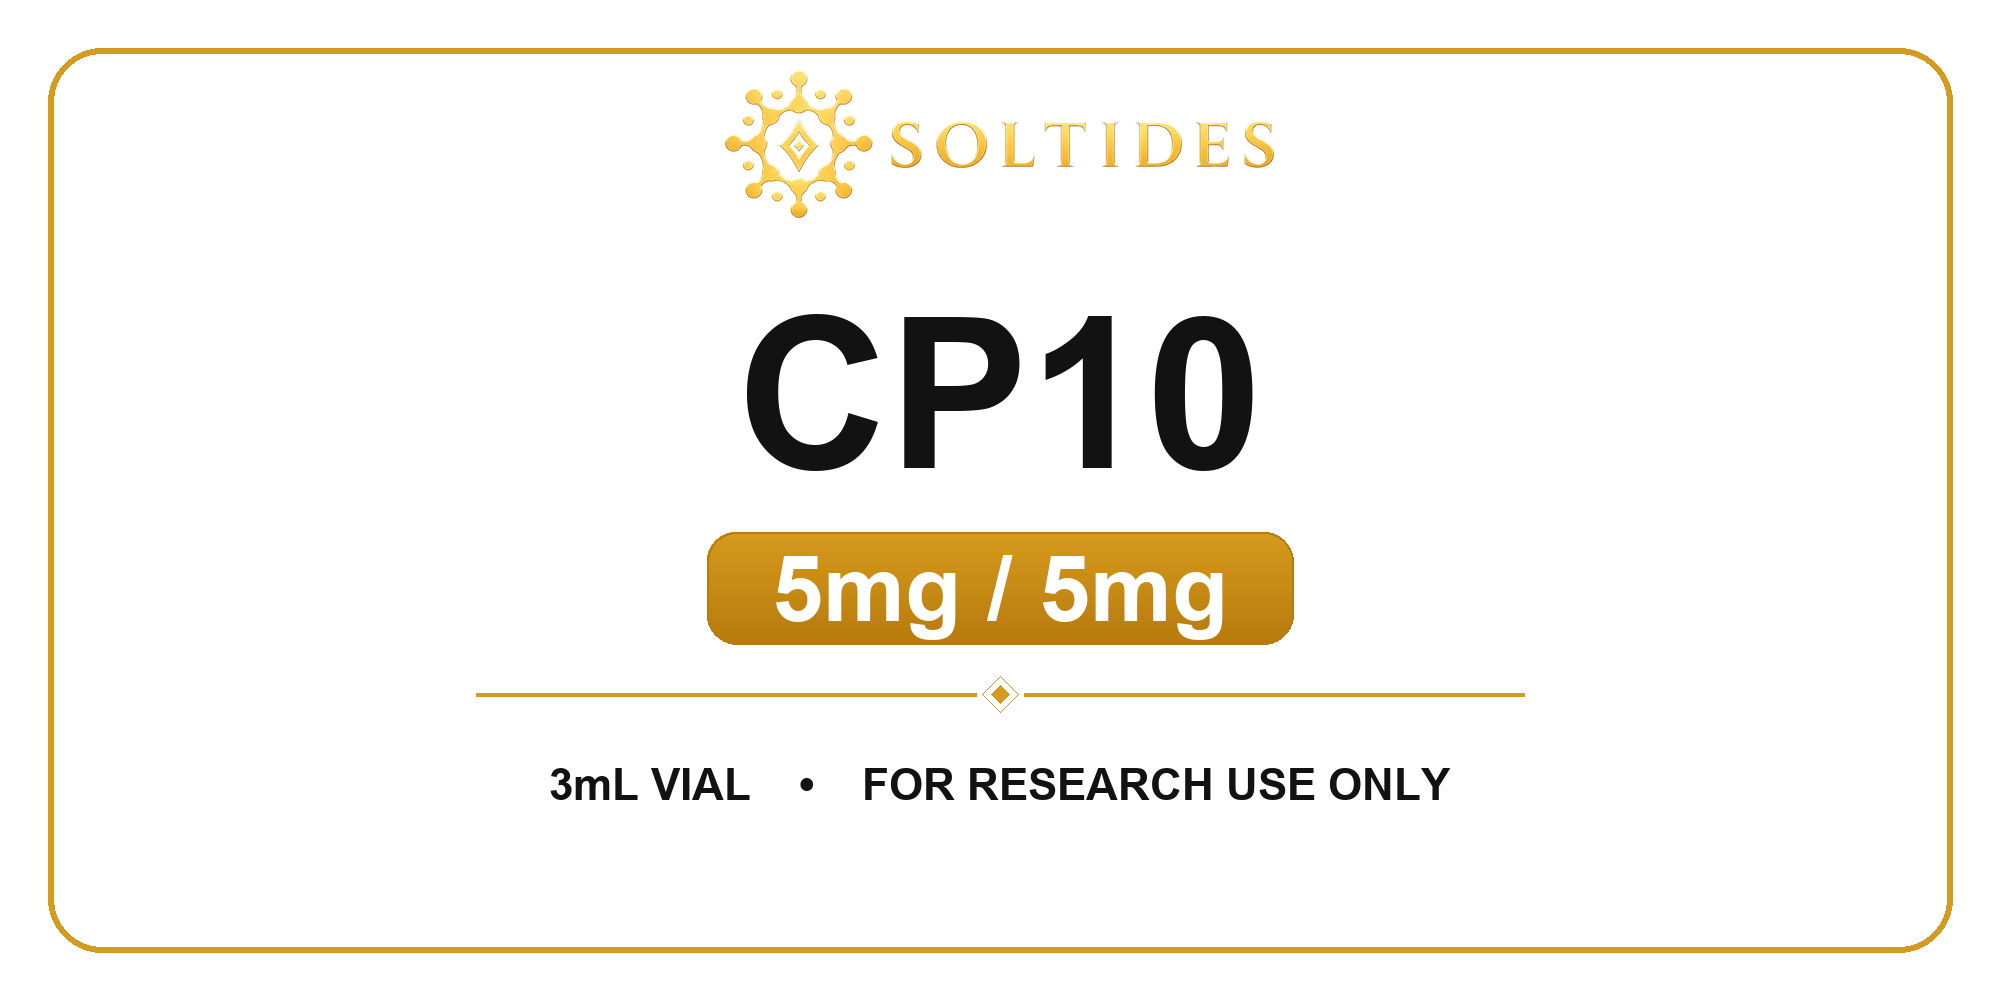
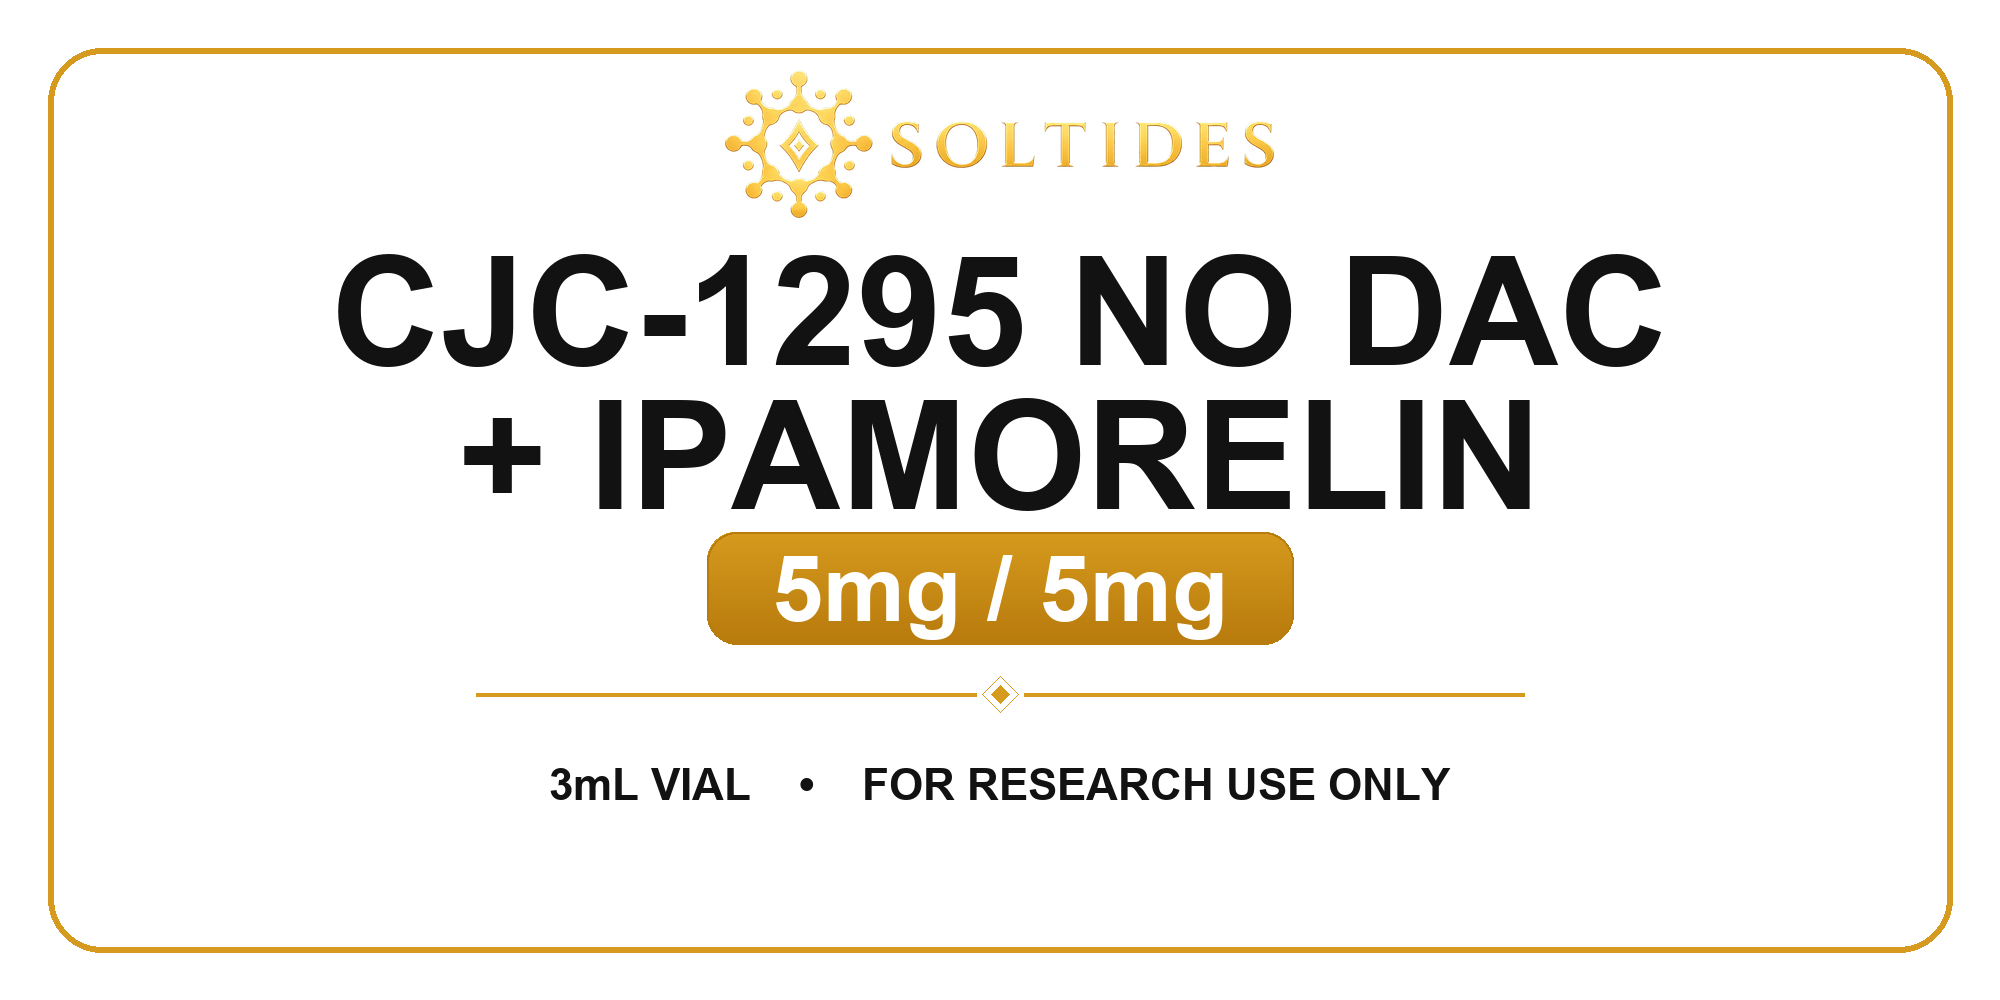
Use product names on CP10 and LC216 assets

Changed region(s): [[0.155, 0.248, 0.837, 0.527]]

diff --git a/tools/generate_labels.py b/tools/generate_labels.py
@@ -27,14 +27,14 @@ TRANSPARENT = (0, 0, 0, 0)
 PRODUCTS = [
     {
         "filename": "cp10-label.png",
-        "title": "CP10",
+        "title": "CJC-1295 NO DAC\n+ IPAMORELIN",
         "dose": "5mg / 5mg",
         "vial": "3mL VIAL",
         "footer": "FOR RESEARCH USE ONLY",
     },
     {
         "filename": "lc216-label.png",
-        "title": "LC216",
+        "title": "LIPO-B",
         "dose": "10mL",
         "vial": "10mL VIAL",
         "footer": "FOR RESEARCH USE ONLY",
